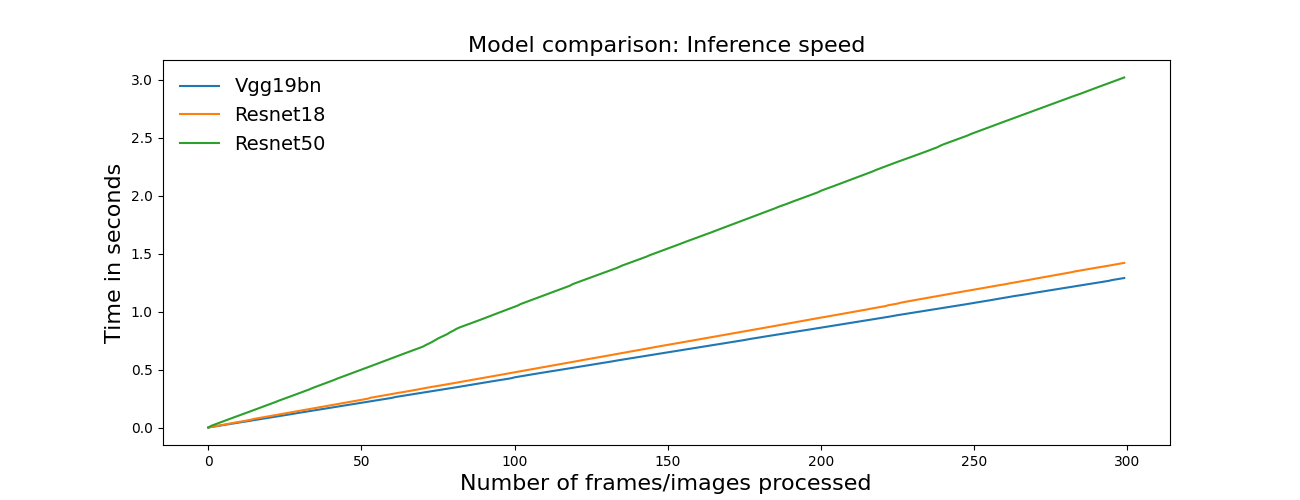
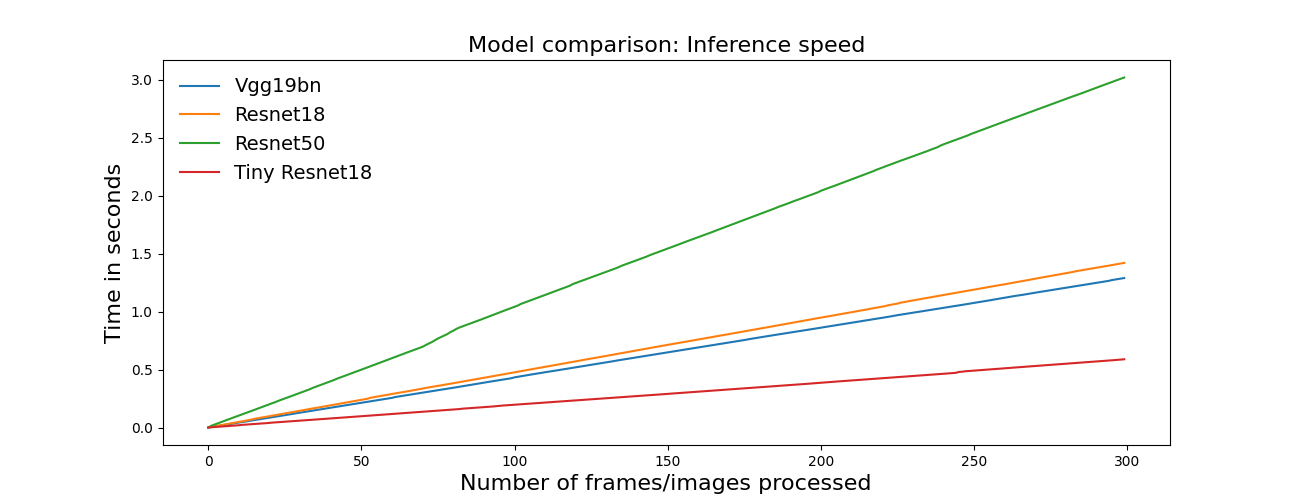
added tiny yolo

diff --git a/utils/figs.py b/utils/figs.py
@@ -9,6 +9,7 @@ from models.yolov1net_darknet import YoloV1Net
 from models.yolov1net_vgg19bn import YoloV1_Vgg19bn
 from models.yolov1net_resnet18 import YoloV1_Resnet18
 from models.yolov1net_resnet50 import YoloV1_Resnet50
+from models.tiny_yolov1net_resnet18 import Tiny_YoloV1_Resnet18
 import matplotlib.pyplot as plt
 from PIL import Image
 from utils.custom_transform import scale_translate, draw_bounding_box, scale_translate_bounding_box
@@ -26,11 +27,14 @@ device = "cuda" if torch.cuda.is_available() else "cpu"
 yolov1_darknet_pretrained = False
 yolov1_vgg19bn_pretrained = False
 yolov1_resnet18_pretrained = False
-yolov1_resnet50_pretrained = True
+yolov1_resnet50_pretrained = False
+tiny_yolov1_resnet18_pretrained = True
 
-model_names = ['vgg19bn_adj_lr_',
+model_names = ['vgg19bn_orig_lr_', 
+                'vgg19bn_adj_lr_',
                 'resnet18_adj_lr_',
-                'resnet50_adj_lr_']
+                'resnet50_adj_lr_',
+                'tiny_resnet18_adj_lr_']
 
 if yolov1_vgg19bn_pretrained == True:
     lr =  0.00001
@@ -44,7 +48,10 @@ elif yolov1_resnet50_pretrained == True:
     lr =  0.00001
     current_model = model_names[2]
     path_cpt_file = f'cpts/{current_model}yolov1.cpt'
-
+elif tiny_yolov1_resnet18_pretrained == True:
+    lr =  0.00001
+    current_model = model_names[4]
+    path_cpt_file = f'cpts/{current_model}yolov1.cpt'
 
 # Initalize model
 if yolov1_darknet_pretrained == True:
@@ -84,6 +91,15 @@ elif yolov1_resnet50_pretrained == True:
     optimizer.load_state_dict(checkpoint['optimizer_state_dict'])
     model.eval()
     print("Petrained yolov1 resnet 50 network initalized.")
+
+elif tiny_yolov1_resnet18_pretrained == True:
+    model = Tiny_YoloV1_Resnet18(S = 7, B = 2, C = 20).to(device)
+    optimizer = optim.Adam(model.parameters(), lr = lr, weight_decay = weight_decay)
+    checkpoint = torch.load(path_cpt_file)
+    model.load_state_dict(checkpoint['model_state_dict'])
+    optimizer.load_state_dict(checkpoint['optimizer_state_dict'])
+    model.eval()
+    print("Petrained tiny yolov1 resnet 18 network initalized.")
 
 else:
     print("No pretrained yolov1 model was specified. Please check the boolean flags and set the flag for supported pretrained models to True.")
@@ -156,15 +172,20 @@ strip_square_brackets("results/resnet18_adj_lr_train_mAP.txt")
 strip_square_brackets("results/resnet18_adj_lr_test_loss.txt")
 strip_square_brackets("results/resnet18_adj_lr_test_mAP.txt")
 
-
 strip_square_brackets("results/resnet50_adj_lr_train_loss.txt")
 strip_square_brackets("results/resnet50_adj_lr_train_mAP.txt")
 strip_square_brackets("results/resnet50_adj_lr_test_loss.txt")
 strip_square_brackets("results/resnet50_adj_lr_test_mAP.txt")
 
+strip_square_brackets("results/tiny_resnet18_adj_lr_train_loss.txt")
+strip_square_brackets("results/tiny_resnet18_adj_lr_train_mAP.txt")
+strip_square_brackets("results/tiny_resnet18_adj_lr_test_loss.txt")
+strip_square_brackets("results/tiny_resnet18_adj_lr_test_mAP.txt")
+
 strip_square_brackets("results/vgg19bn_adj_lr_inference_speed.txt")
 strip_square_brackets("results/resnet18_adj_lr_inference_speed.txt")
 strip_square_brackets("results/resnet50_adj_lr_inference_speed.txt")
+strip_square_brackets("results/tiny_resnet18_adj_lr_inference_speed.txt")
 
 # Load values from txt file
 train_vgg19_loss = genfromtxt("results/vgg19bn_adj_lr_train_loss.txt", delimiter=',')
@@ -182,15 +203,22 @@ train_resnet50_map = genfromtxt("results/resnet50_adj_lr_train_mAP.txt", delimit
 test_resnet50_loss = genfromtxt("results/resnet50_adj_lr_test_loss.txt", delimiter=',')
 test_resnet50_map = genfromtxt("results/resnet50_adj_lr_test_mAP.txt", delimiter=',')
 
+train_tiny_resnet18_loss = genfromtxt("results/tiny_resnet18_adj_lr_train_loss.txt", delimiter=',')
+train_tiny_resnet18_map = genfromtxt("results/tiny_resnet18_adj_lr_train_mAP.txt", delimiter=',')
+test_tiny_resnet18_loss = genfromtxt("results/tiny_resnet18_adj_lr_test_loss.txt", delimiter=',')
+test_tiny_resnet18_map = genfromtxt("results/tiny_resnet18_adj_lr_test_mAP.txt", delimiter=',')
+
 speed_vgg19bn = genfromtxt("results/vgg19bn_adj_lr_inference_speed.txt", delimiter=',')
 speed_resnet18 = genfromtxt("results/resnet18_adj_lr_inference_speed.txt", delimiter=',')
 speed_resnet50 = genfromtxt("results/resnet50_adj_lr_inference_speed.txt", delimiter=',')
+speed_tiny_resnet18 = genfromtxt("results/tiny_resnet18_adj_lr_inference_speed.txt", delimiter=',')
 
 # First inference pass takes longer than subsequent passes. As such we substract
 # each element by that constant.
 speed_vgg19bn = np.array(speed_vgg19bn) - speed_vgg19bn[0]
 speed_resnet18 = speed_resnet18 - speed_resnet18[0]
 speed_resnet50 = speed_resnet50 - speed_resnet50[0]
+speed_tiny_resnet18 = speed_tiny_resnet18 - speed_tiny_resnet18[0]
 
 # Plot Vgg loss 
 plt.figure(figsize=(13,5))
@@ -262,6 +290,29 @@ plt.legend(['Train mAP', 'Test mAP'], prop={'size': 14},
             frameon=False)
 plt.savefig('figures/resnet50_loss_map.png')
 
+# Plot tiny yolo resnet18 loss
+plt.figure(figsize=(13,5))
+plt.subplot(1,2,1)
+plt.plot(train_tiny_resnet18_loss, linewidth=1.5)
+plt.plot(test_tiny_resnet18_loss, linewidth=1.5)
+plt.title('Tiny ResNet18: Loss per epoch', fontsize = 16)
+plt.xlabel('Number of epochs', fontsize = 16)
+plt.ylabel('Loss value', fontsize = 16)
+plt.legend(['Train loss', 'Test loss'],
+           prop={'size': 14},           
+            frameon=False)
+
+# Plot tiny yolo resnet18 mean average precision
+plt.subplot(1, 2, 2)
+plt.plot(train_tiny_resnet18_map, linewidth = 1.5)
+plt.plot(test_tiny_resnet18_map, linewidth = 1.5)
+plt.title('Tiny ResNet18: Mean average precision per epoch', fontsize = 16)
+plt.xlabel('Number of epochs', fontsize = 16)
+plt.ylabel('mAP value ', fontsize = 16)
+plt.legend(['Train mAP', 'Test mAP'], prop={'size': 14},           
+            frameon=False)
+plt.savefig('figures/tiny_resnet18_loss_map.png')
+
 
 # Plot train map across models
 plt.figure(figsize=(13,5))
@@ -269,10 +320,11 @@ plt.subplot(1,2,1)
 plt.plot(train_vgg19_map, linewidth=1.5)
 plt.plot(train_resnet18_map, linewidth=1.5)
 plt.plot(train_resnet50_map, linewidth=1.5)
+plt.plot(train_tiny_resnet18_map, linewidth=1.5)
 plt.title('Model comparison: Train mAP', fontsize = 16)
 plt.xlabel('Number of epochs', fontsize = 16)
 plt.ylabel('mAP value', fontsize = 16)
-plt.legend(['Vgg19bn', 'Resnet18', 'Resnet50'],
+plt.legend(['Vgg19bn', 'Resnet18', 'Resnet50', 'Tiny Resnet18'],
            prop={'size': 14},           
             frameon=False)
 
@@ -281,10 +333,11 @@ plt.subplot(1, 2, 2)
 plt.plot(test_vgg19_map, linewidth=1.5)
 plt.plot(test_resnet18_map, linewidth=1.5)
 plt.plot(test_resnet50_map, linewidth=1.5)
+plt.plot(test_tiny_resnet18_map, linewidth=1.5)
 plt.title('Model comparison: Test mAP', fontsize = 16)
 plt.xlabel('Number of epochs', fontsize = 16)
 plt.ylabel('mAP value ', fontsize = 16)
-plt.legend(['Vgg19bn', 'Resnet18', 'Resnet50'], prop={'size': 14},           
+plt.legend(['Vgg19bn', 'Resnet18', 'Resnet50', 'Tiny Resnet18'], prop={'size': 14},           
             frameon=False)
 plt.savefig('figures/model_comparison_map.png')
 
@@ -293,10 +346,11 @@ plt.figure(figsize=(13,5))
 plt.plot(speed_vgg19bn, linewidth=1.5)
 plt.plot(speed_resnet18, linewidth=1.5)
 plt.plot(speed_resnet50, linewidth=1.5)
+plt.plot(speed_tiny_resnet18, linewidth=1.5)
 plt.title('Model comparison: Inference speed', fontsize = 16)
 plt.xlabel('Number of frames/images processed', fontsize = 16)
 plt.ylabel('Time in seconds', fontsize = 16)
-plt.legend(['Vgg19bn', 'Resnet18', 'Resnet50'],
+plt.legend(['Vgg19bn', 'Resnet18', 'Resnet50', 'Tiny Resnet18'],
            prop={'size': 14},           
             frameon=False)
 plt.savefig('figures/model_comparison_inference_speed.png')

diff --git a/utils/get_inference_speed.py b/utils/get_inference_speed.py
@@ -6,6 +6,8 @@ from models.yolov1net_darknet import YoloV1Net
 from models.yolov1net_vgg19bn import YoloV1_Vgg19bn
 from models.yolov1net_resnet18 import YoloV1_Resnet18
 from models.yolov1net_resnet50 import YoloV1_Resnet50
+from models.tiny_yolov1net_resnet18 import Tiny_YoloV1_Resnet18
+
 import torchvision.transforms as T
 from PIL import Image
 import pandas as pd
@@ -21,11 +23,14 @@ device = "cuda" if torch.cuda.is_available() else "cpu"
 yolov1_darknet_pretrained = False
 yolov1_vgg19bn_pretrained = False
 yolov1_resnet18_pretrained = False
-yolov1_resnet50_pretrained = True
+yolov1_resnet50_pretrained = False
+tiny_yolov1_resnet18_pretrained = True
 
-model_names = ['vgg19bn_adj_lr_',
+model_names = ['vgg19bn_orig_lr_', 
+                'vgg19bn_adj_lr_',
                 'resnet18_adj_lr_',
-                'resnet50_adj_lr_']
+                'resnet50_adj_lr_',
+                'tiny_resnet18_adj_lr_']
 
 if yolov1_vgg19bn_pretrained == True:
     lr =  0.00001
@@ -39,7 +44,10 @@ elif yolov1_resnet50_pretrained == True:
     lr =  0.00001
     current_model = model_names[2]
     path_cpt_file = f'cpts/{current_model}yolov1.cpt'
-
+elif tiny_yolov1_resnet18_pretrained == True:
+    lr =  0.00001
+    current_model = model_names[4]
+    path_cpt_file = f'cpts/{current_model}yolov1.cpt'
 
 # # init model
 if yolov1_darknet_pretrained == True:
@@ -80,6 +88,15 @@ elif yolov1_resnet50_pretrained == True:
     model.eval()
     print("Petrained yolov1 resnet 50 network initalized.")
 
+elif tiny_yolov1_resnet18_pretrained == True:
+    model = Tiny_YoloV1_Resnet18(S = 7, B = 2, C = 20).to(device)
+    optimizer = optim.Adam(model.parameters(), lr = lr, weight_decay = weight_decay)
+    checkpoint = torch.load(path_cpt_file)
+    model.load_state_dict(checkpoint['model_state_dict'])
+    optimizer.load_state_dict(checkpoint['optimizer_state_dict'])
+    model.eval()
+    print("Petrained tiny yolov1 resnet 18 network initalized.")
+
 else:
     print("No pretrained yolov1 model was specified. Please check the boolean flags and set the flag for supported pretrained models to True.")
 
@@ -114,5 +131,8 @@ elif yolov1_resnet18_pretrained == True:
     with open(f'results/{current_model}inference_speed.txt','w') as values:
         values.write(str(lst))
 elif yolov1_resnet50_pretrained == True:
+    with open(f'results/{current_model}inference_speed.txt','w') as values:
+        values.write(str(lst))
+elif tiny_yolov1_resnet18_pretrained == True:
     with open(f'results/{current_model}inference_speed.txt','w') as values:
         values.write(str(lst))

diff --git a/train/train_yolov1.py b/train/train_yolov1.py
@@ -19,6 +19,8 @@ from models.yolov1net_darknet import YoloV1Net
 from models.yolov1net_vgg19bn import YoloV1_Vgg19bn
 from models.yolov1net_resnet18 import YoloV1_Resnet18
 from models.yolov1net_resnet50 import YoloV1_Resnet50
+from models.tiny_yolov1net_resnet18 import Tiny_YoloV1_Resnet18
+
 import cv2 as cv
 import numpy as np 
 from numpy import genfromtxt
@@ -39,8 +41,9 @@ lr_sched_original = False
 lr_sched_adjusted = True
 use_vgg19bn_backbone = False
 use_original_darknet_backbone = False
-use_resnet18_backbone = True
+use_resnet18_backbone = False
 use_resnet50_backbone = False
+use_tiny_resnet18_backbone = True
 
 check_image_transform = False
 save_model = True
@@ -48,7 +51,8 @@ save_model = True
 model_names = ['vgg19bn_orig_lr_', 
                 'vgg19bn_adj_lr_',
                 'resnet18_adj_lr_',
-                'resnet50_adj_lr_']
+                'resnet50_adj_lr_',
+                'tiny_resnet18_adj_lr_']
 
 if lr_sched_original == True and use_vgg19bn_backbone == True:
     lr = 0.001
@@ -66,6 +70,11 @@ elif lr_sched_adjusted == True and use_resnet50_backbone == True:
     lr =  0.00001
     current_model = model_names[3]
     path_cpt_file = f'cpts/{current_model}yolov1.cpt'
+elif lr_sched_adjusted == True and use_tiny_resnet18_backbone == True:
+    lr =  0.00001
+    current_model = model_names[4]
+    path_cpt_file = f'cpts/{current_model}yolov1.cpt'
+
 
 class Compose(object):
     def __init__(self, transforms):
@@ -154,6 +163,10 @@ def main():
     elif use_resnet50_backbone == True:
         model = YoloV1_Resnet50(S = 7, B = 2, C = 20).to(device)
         print("Petrained resnet 50 network initalized as a backbone.")
+    
+    elif use_tiny_resnet18_backbone == True:
+        model = Tiny_YoloV1_Resnet18(S = 7, B = 2, C = 20).to(device)
+        print("Petrained tiny resnet 18 yolo network initalized as a backbone.")
 
     else:
         print("No backbone was specified. Please check the boolean flags in train_yolov1.py and set the flag for supported backbones to True.")
